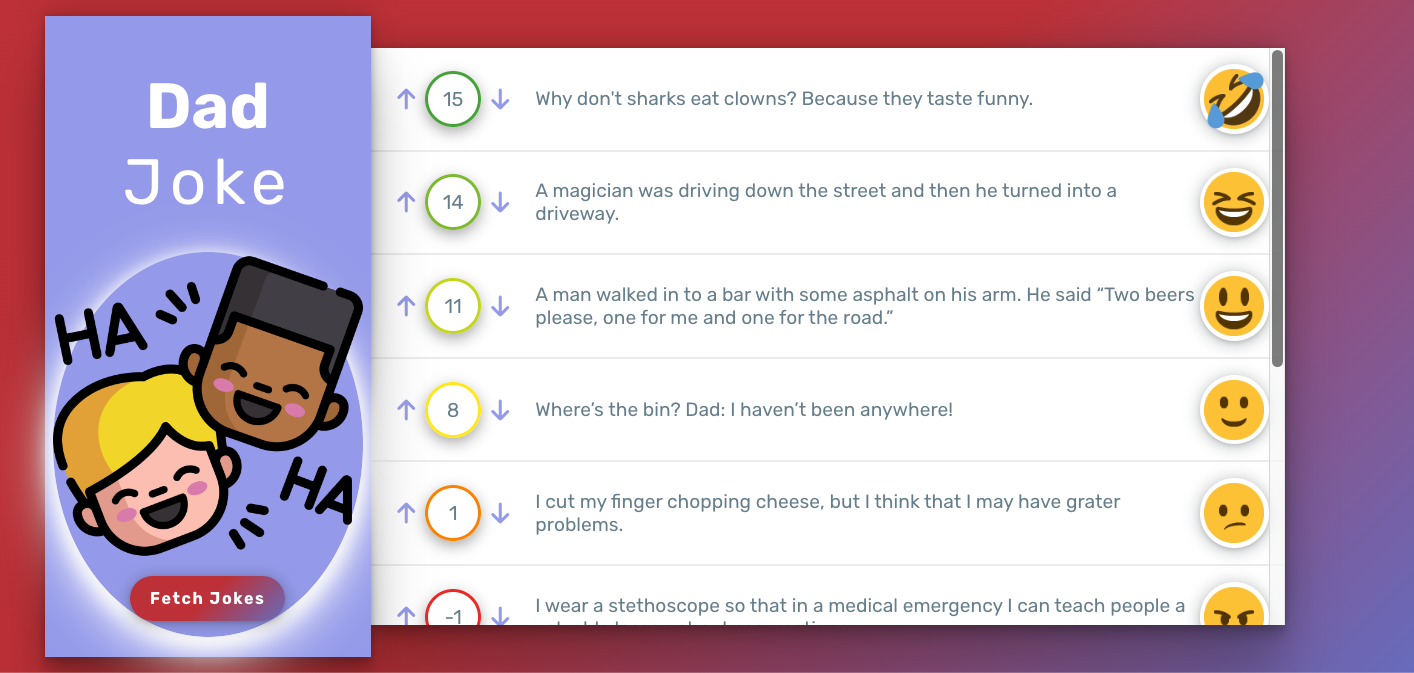
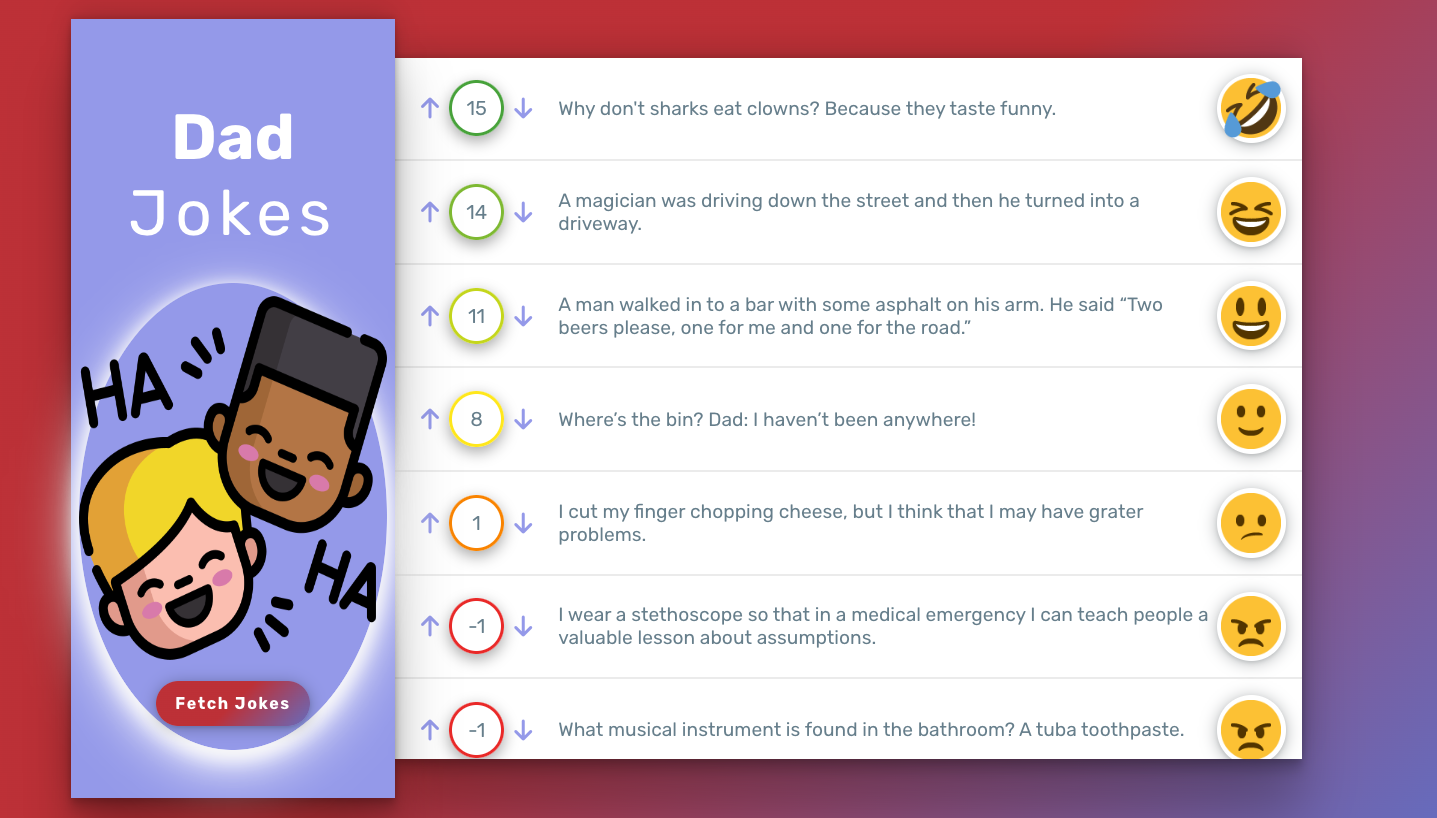
add s in joke word to make it plural

Changed region(s): [[0.0, 0.0, 1.0, 1.0], [0.0934, 0.1248, 0.2178, 0.2184]]

diff --git a/src/components/JokeList.js b/src/components/JokeList.js
@@ -89,7 +89,7 @@ class JokeList extends Component {
       <div className='JokeList'>
         <div className='JokeList-sidebar'>
           <h1 className='JokeList-title'>
-            <span>Dad</span> Joke
+            <span>Dad</span> Jokes
           </h1>
           <div className='JokeList-circle'>
             <img src={laughIcon} alt='laughIcon' />
